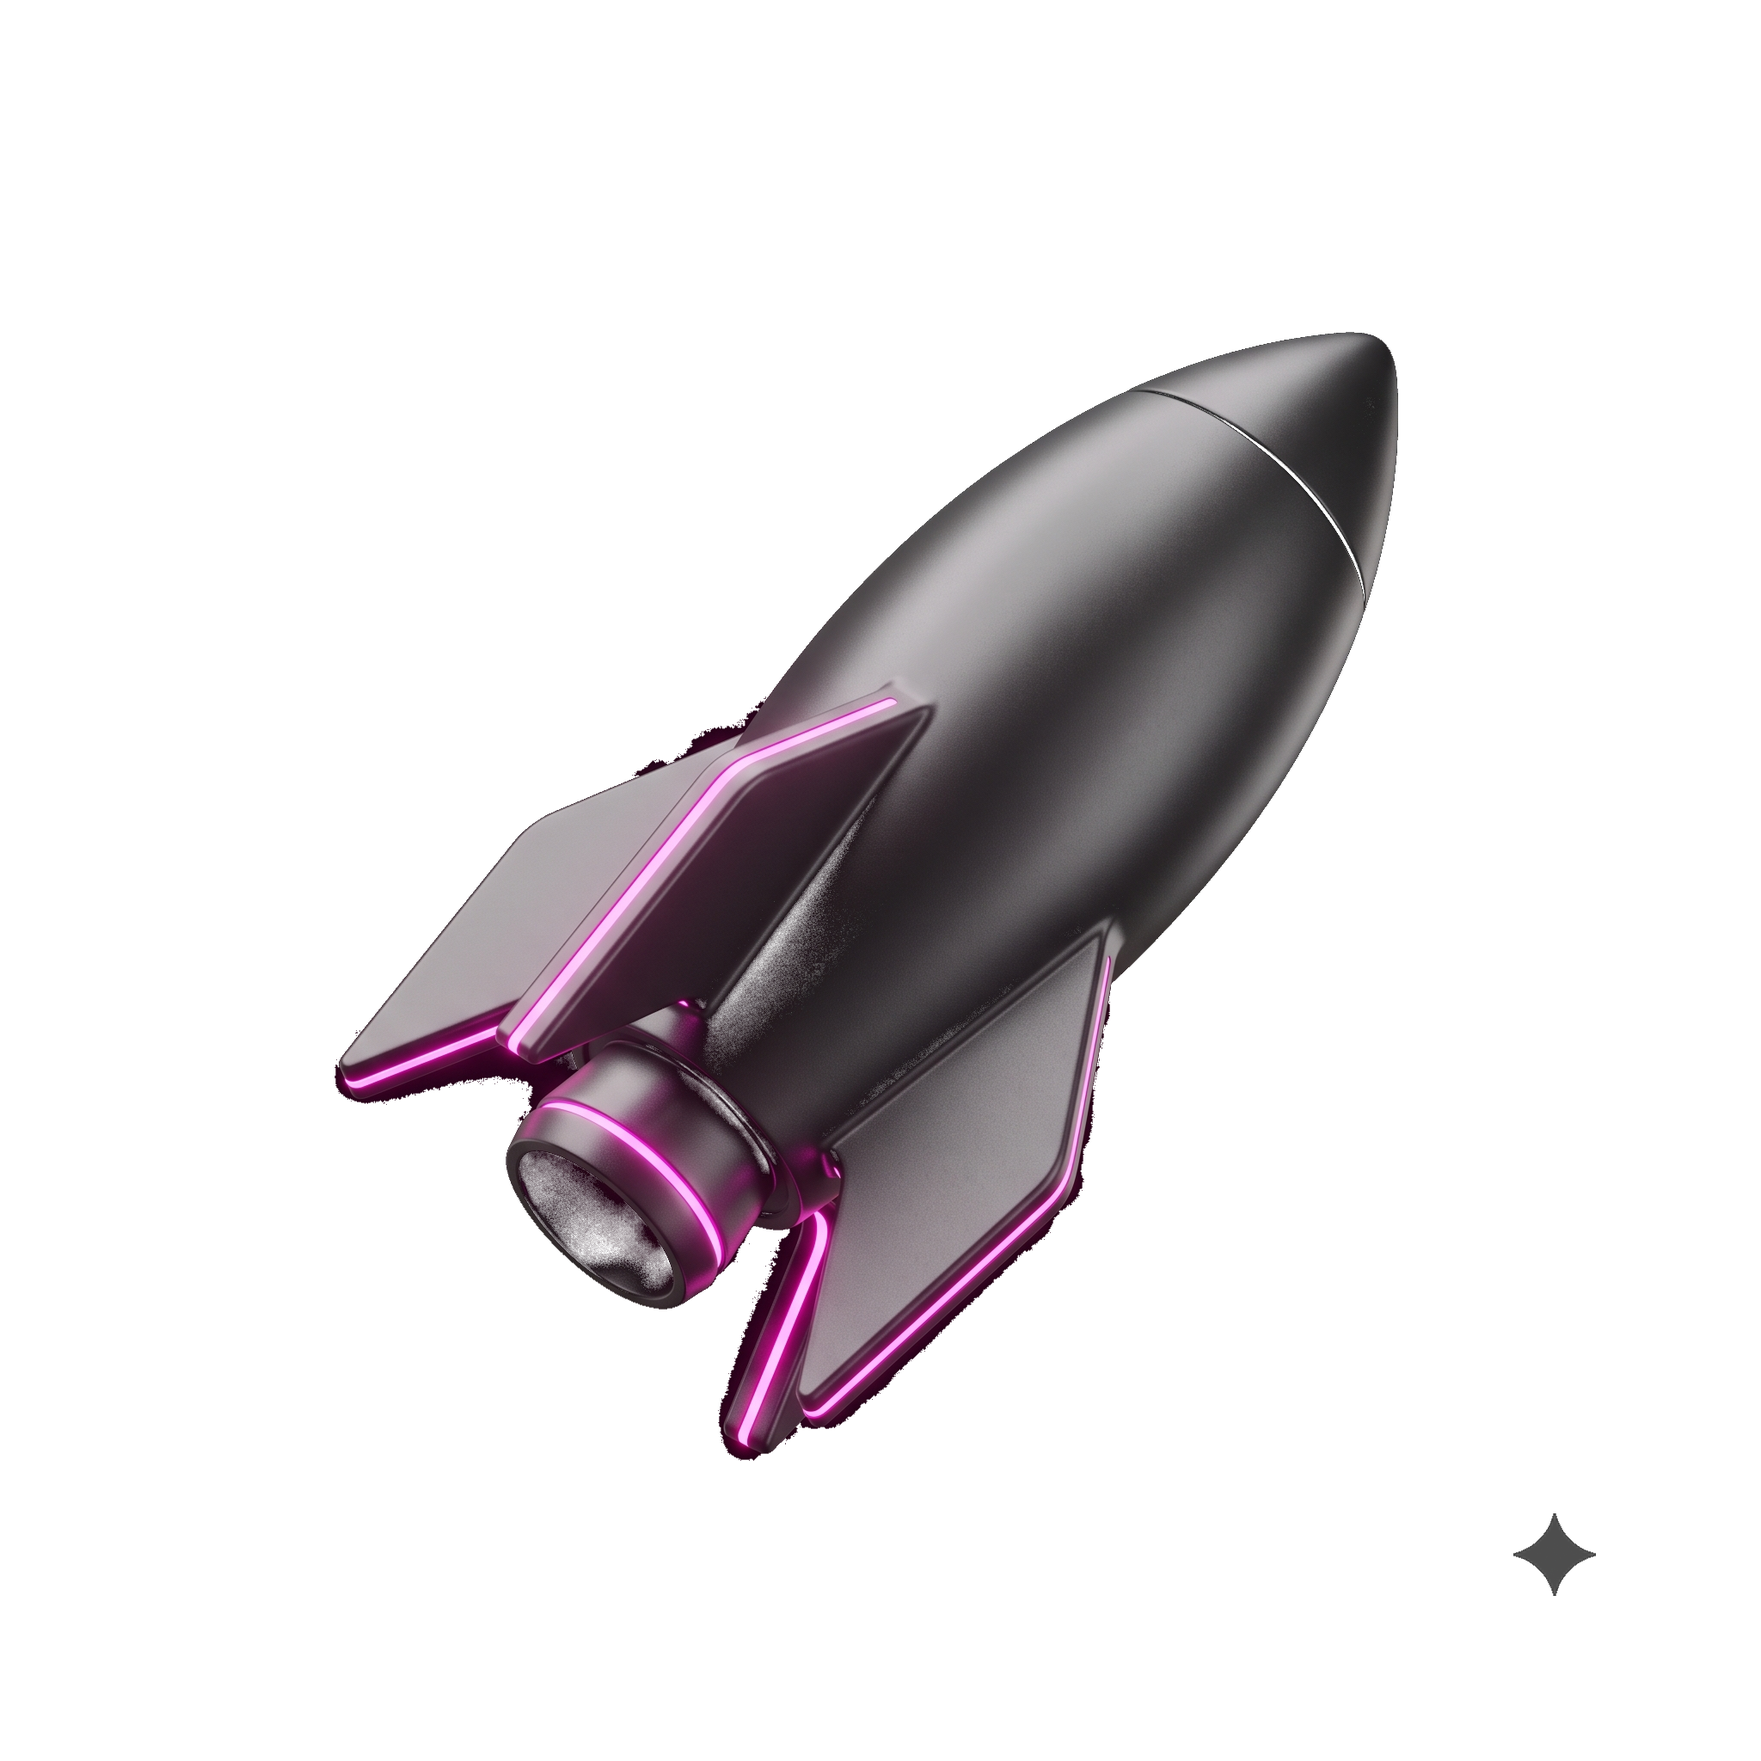
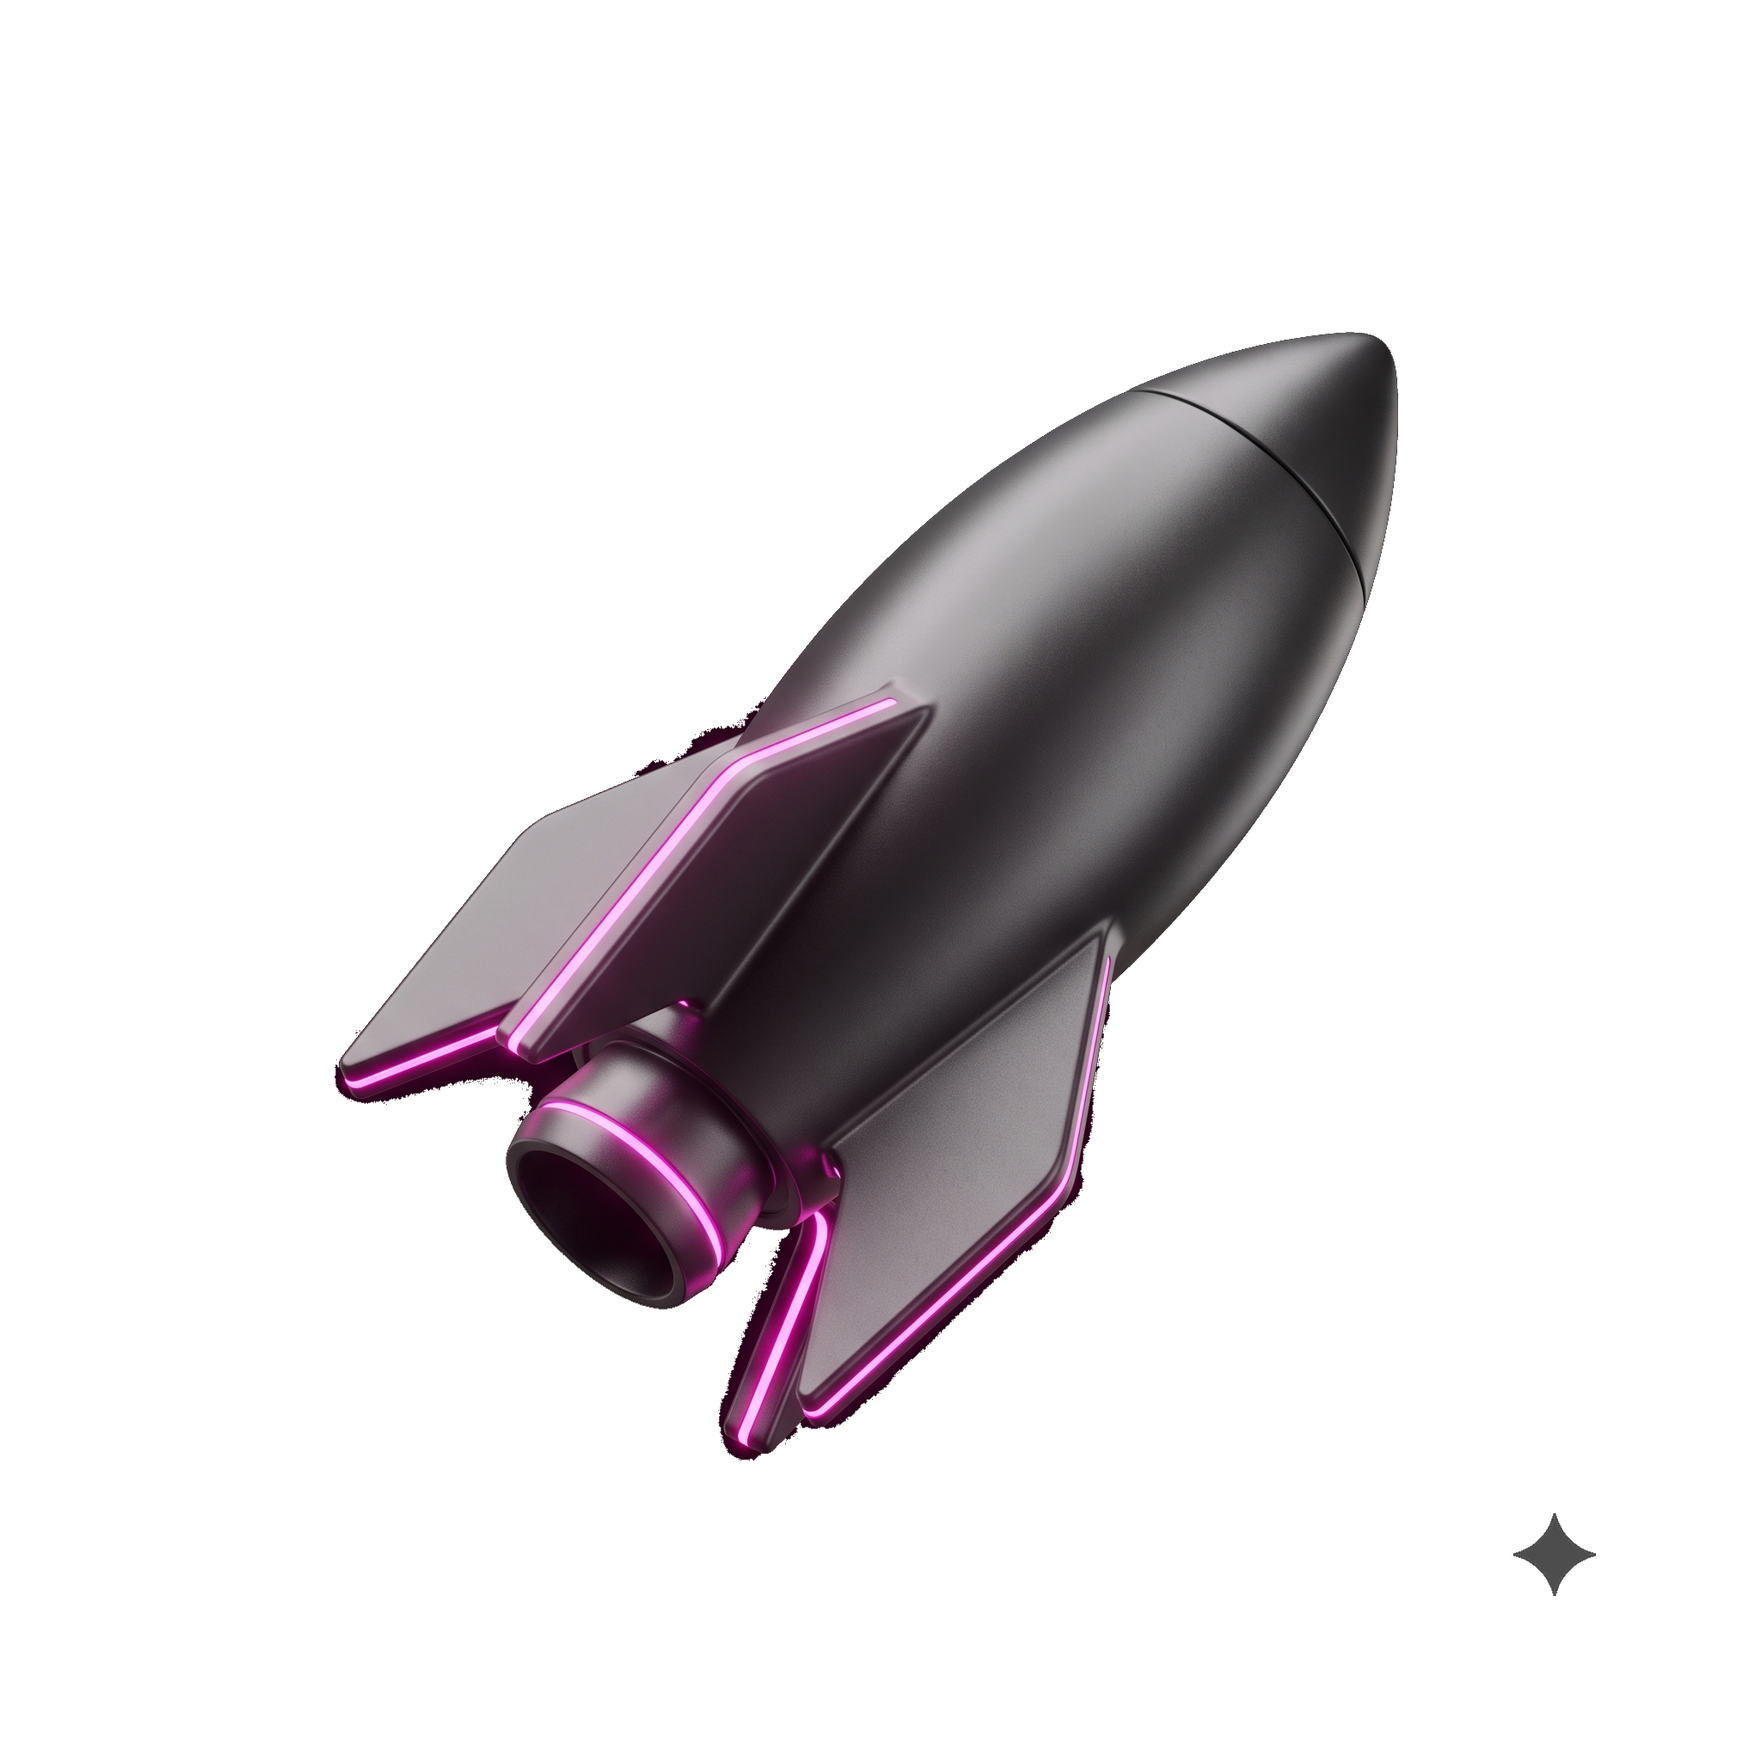
Refine 3D asset edge-floodfill transparency & scale up bento 3D graphics

diff --git a/client/components/sections/AboutSection.tsx b/client/components/sections/AboutSection.tsx
@@ -88,39 +88,39 @@ export default function AboutSection() {
                 </div>
               </div>
 
-              <div className="pt-4 border-t border-white/10 flex items-center justify-between gap-4 flex-wrap">
-                <div className="flex items-center gap-4 text-xs font-mono">
-                  <div className="flex items-center gap-2">
-                    <div className="relative h-7 w-7 shrink-0">
+              <div className="pt-6 border-t border-white/10 flex items-center justify-between gap-6 flex-wrap">
+                <div className="flex items-center gap-6 text-xs font-mono">
+                  <div className="flex items-center gap-3">
+                    <div className="relative h-12 w-12 sm:h-14 sm:w-14 shrink-0">
                       <Image
                         src="/assets/bento/sdg-wheel.png"
                         alt="3D SDG Wheel"
-                        width={28}
-                        height={28}
+                        width={56}
+                        height={56}
                         unoptimized
-                        className="object-contain drop-shadow-[0_4px_10px_rgba(242,0,137,0.5)]"
+                        className="object-contain drop-shadow-[0_8px_20px_rgba(242,0,137,0.6)] hover:scale-110 transition-transform"
                       />
                     </div>
                     <div>
-                      <span className="block text-white/50 text-[10px] uppercase">UN Alignment</span>
-                      <strong className="text-[#f20089] text-sm font-bold">17 SDGs</strong>
+                      <span className="block text-white/50 text-[11px] uppercase tracking-wider font-bold">UN Alignment</span>
+                      <strong className="text-[#f20089] text-base font-black">17 SDGs</strong>
                     </div>
                   </div>
-                  <div className="h-6 w-[1px] bg-white/10" />
-                  <div className="flex items-center gap-2">
-                    <div className="relative h-7 w-7 shrink-0">
+                  <div className="h-8 w-[1px] bg-white/15" />
+                  <div className="flex items-center gap-3">
+                    <div className="relative h-12 w-12 sm:h-14 sm:w-14 shrink-0">
                       <Image
                         src="/assets/bento/network-nodes.png"
                         alt="3D Network Nodes"
-                        width={28}
-                        height={28}
+                        width={56}
+                        height={56}
                         unoptimized
-                        className="object-contain drop-shadow-[0_4px_10px_rgba(56,189,248,0.5)]"
+                        className="object-contain drop-shadow-[0_8px_20px_rgba(56,189,248,0.6)] hover:scale-110 transition-transform"
                       />
                     </div>
                     <div>
-                      <span className="block text-white/50 text-[10px] uppercase">Heritage Impact</span>
-                      <strong className="text-white text-sm font-bold">100+ Founders</strong>
+                      <span className="block text-white/50 text-[11px] uppercase tracking-wider font-bold">Heritage Impact</span>
+                      <strong className="text-white text-base font-black">100+ Founders</strong>
                     </div>
                   </div>
                 </div>

diff --git a/client/app/events/components/EventInsideView.tsx b/client/app/events/components/EventInsideView.tsx
@@ -351,25 +351,25 @@ export default function EventInsideView({
               </span>
             </div>
 
-            <div className="flex items-center gap-3 hidden sm:flex">
-              <div className="relative h-14 w-14">
+            <div className="flex items-center gap-4 hidden sm:flex">
+              <div className="relative h-24 w-24 sm:h-28 sm:w-28">
                 <Image
                   src="/assets/bento/event-ticket-3d.png"
                   alt="3D Event Ticket"
-                  width={56}
-                  height={56}
+                  width={112}
+                  height={112}
                   unoptimized
-                  className="object-contain drop-shadow-[0_6px_15px_rgba(242,0,137,0.5)] hover:scale-110 transition-transform"
+                  className="object-contain drop-shadow-[0_10px_25px_rgba(242,0,137,0.6)] hover:scale-110 transition-transform duration-300"
                 />
               </div>
-              <div className="relative h-14 w-14">
+              <div className="relative h-24 w-24 sm:h-28 sm:w-28">
                 <Image
                   src="/assets/bento/venture-coins.png"
                   alt="3D Venture Coins"
-                  width={56}
-                  height={56}
+                  width={112}
+                  height={112}
                   unoptimized
-                  className="object-contain drop-shadow-[0_6px_15px_rgba(245,158,11,0.5)] hover:scale-110 transition-transform"
+                  className="object-contain drop-shadow-[0_10px_25px_rgba(245,158,11,0.6)] hover:scale-110 transition-transform duration-300"
                 />
               </div>
             </div>

diff --git a/client/components/events/StudentLeaderboard.tsx b/client/components/events/StudentLeaderboard.tsx
@@ -220,14 +220,14 @@ export default function StudentLeaderboard() {
                 <p className="text-xs font-bold text-[#f20089] mt-0.5">{top3[0].ventureTitle}</p>
                 <p className="text-xs text-neutral-300 mt-2 line-clamp-2">{top3[0].tagline}</p>
               </div>
-              <div className="relative h-20 w-20 shrink-0 hidden sm:block">
+              <div className="relative h-28 w-28 sm:h-36 sm:w-36 shrink-0 hidden sm:block">
                 <Image
                   src="/assets/bento/leaderboard-trophy.png"
                   alt="3D Champion Trophy"
-                  width={80}
-                  height={80}
+                  width={144}
+                  height={144}
                   unoptimized
-                  className="object-contain drop-shadow-[0_8px_20px_rgba(242,0,137,0.5)] hover:scale-110 transition-transform"
+                  className="object-contain drop-shadow-[0_12px_30px_rgba(242,0,137,0.7)] hover:scale-110 transition-transform duration-300"
                 />
               </div>
             </div>

diff --git a/client/app/events/checkin/page.tsx b/client/app/events/checkin/page.tsx
@@ -76,14 +76,14 @@ function CheckInContent() {
         <div className="pointer-events-none absolute -bottom-32 -right-32 h-96 w-96 rounded-full bg-purple-900/30 blur-3xl" />
 
         <div className="relative z-10 max-w-md w-full rounded-3xl border border-white/15 bg-white/[0.04] backdrop-blur-2xl p-8 space-y-6 shadow-2xl">
-          <div className="relative mx-auto h-20 w-20 flex items-center justify-center">
+          <div className="relative mx-auto h-32 w-32 sm:h-40 sm:w-40 flex items-center justify-center">
             <Image
               src="/assets/bento/qr-scanner-3d.png"
               alt="3D QR Scanner"
-              width={80}
-              height={80}
+              width={160}
+              height={160}
               unoptimized
-              className="object-contain drop-shadow-[0_8px_25px_rgba(242,0,137,0.6)] hover:scale-110 transition-transform"
+              className="object-contain drop-shadow-[0_12px_35px_rgba(242,0,137,0.7)] hover:scale-110 transition-transform duration-300"
             />
           </div>
 

diff --git a/client/app/register/page.tsx b/client/app/register/page.tsx
@@ -408,14 +408,14 @@ export default function RegisterPage() {
               /* GOOGLE ONLY AUTHENTICATION VIEW */
               <div className="relative z-10 py-2 animate-fadeIn">
                 {/* 3D Pitch Deck Icon */}
-                <div className="relative mx-auto mb-3 h-20 w-20 flex items-center justify-center">
+                <div className="relative mx-auto mb-4 h-32 w-32 sm:h-40 sm:w-40 flex items-center justify-center">
                   <Image
                     src="/assets/bento/pitch-deck.png"
                     alt="3D Venture Pitch Deck"
-                    width={80}
-                    height={80}
+                    width={160}
+                    height={160}
                     unoptimized
-                    className="object-contain drop-shadow-[0_8px_25px_rgba(242,0,137,0.5)] hover:scale-110 transition-transform"
+                    className="object-contain drop-shadow-[0_12px_35px_rgba(242,0,137,0.6)] hover:scale-110 transition-transform duration-300"
                   />
                 </div>
 

diff --git a/client/app/team/page.tsx b/client/app/team/page.tsx
@@ -318,14 +318,14 @@ export default function TeamPage() {
       <main className="relative z-10 flex-1 max-w-7xl mx-auto px-4 sm:px-6 lg:px-8 py-12 sm:py-16 w-full">
         {/* Hero Section */}
         <div className="text-center max-w-3xl mx-auto mb-12 sm:mb-16">
-          <div className="relative mx-auto mb-4 h-24 w-24 flex items-center justify-center">
+          <div className="relative mx-auto mb-4 h-36 w-36 sm:h-44 sm:w-44 flex items-center justify-center">
             <Image
               src="/assets/bento/team-podium.png"
               alt="3D Organizing Committee Team Podium"
-              width={96}
-              height={96}
+              width={176}
+              height={176}
               unoptimized
-              className="object-contain drop-shadow-[0_10px_30px_rgba(242,0,137,0.5)] hover:scale-110 transition-transform duration-300"
+              className="object-contain drop-shadow-[0_12px_35px_rgba(242,0,137,0.6)] hover:scale-110 transition-transform duration-300"
             />
           </div>
 

diff --git a/client/app/profile/page.tsx b/client/app/profile/page.tsx
@@ -287,14 +287,14 @@ export default function StudentProfilePage() {
                       studentInfo?.firstName?.charAt(0) || "H"
                     )}
                   </div>
-                  <div className="relative h-16 w-16 shrink-0 hidden sm:block">
+                  <div className="relative h-24 w-24 sm:h-28 sm:w-28 shrink-0 hidden sm:block">
                     <Image
                       src="/assets/bento/founder-shield-badge.png"
                       alt="3D Founder Shield Badge"
-                      width={64}
-                      height={64}
+                      width={112}
+                      height={112}
                       unoptimized
-                      className="object-contain drop-shadow-[0_8px_20px_rgba(242,0,137,0.5)] hover:scale-110 transition-transform"
+                      className="object-contain drop-shadow-[0_10px_25px_rgba(242,0,137,0.6)] hover:scale-110 transition-transform duration-300"
                     />
                   </div>
                 </div>

diff --git a/client/app/portal-hult-8f4b2c1e9a7d/AdminSignInGate.tsx b/client/app/portal-hult-8f4b2c1e9a7d/AdminSignInGate.tsx
@@ -45,14 +45,14 @@ export default function AdminSignInGate() {
             <div className="pointer-events-none absolute -bottom-16 -left-16 h-48 w-48 rounded-full bg-purple-900/30 blur-3xl" />
 
             {/* 3D Security Keycard Badge */}
-            <div className="relative mx-auto mb-4 flex h-20 w-20 items-center justify-center">
+            <div className="relative mx-auto mb-4 h-32 w-32 sm:h-40 sm:w-40 flex items-center justify-center">
               <Image
                 src="/assets/bento/security-keycard.png"
                 alt="3D Security Keycard"
-                width={80}
-                height={80}
+                width={160}
+                height={160}
                 unoptimized
-                className="object-contain drop-shadow-[0_8px_25px_rgba(242,0,137,0.6)] hover:scale-110 transition-transform"
+                className="object-contain drop-shadow-[0_12px_35px_rgba(242,0,137,0.7)] hover:scale-110 transition-transform duration-300"
               />
             </div>
 

diff --git a/client/components/events/LiveAuditoriumHub.tsx b/client/components/events/LiveAuditoriumHub.tsx
@@ -263,13 +263,13 @@ export default function LiveAuditoriumHub() {
       {/* Header Banner */}
       <div className="flex flex-col md:flex-row md:items-center justify-between gap-4 pb-8 border-b border-white/10">
         <div className="flex items-center gap-4">
-          <div className="relative w-14 h-14 shrink-0 hidden sm:block">
+          <div className="relative w-24 h-24 sm:w-28 sm:h-28 shrink-0 hidden sm:block">
             <Image
               src="/assets/bento/broadcast-antenna.png"
               alt="Live Stage Broadcast Antenna"
-              width={56}
-              height={56}
-              className="object-contain drop-shadow-[0_6px_16px_rgba(242,0,137,0.4)]"
+              width={112}
+              height={112}
+              className="object-contain drop-shadow-[0_8px_20px_rgba(242,0,137,0.6)] hover:scale-110 transition-transform duration-300"
               unoptimized
             />
           </div>

diff --git a/client/app/events/page.tsx b/client/app/events/page.tsx
@@ -392,14 +392,14 @@ export default function EventsPage() {
         ) : (
           <>
             {/* 3D Incubation Flask Asset */}
-            <div className="relative mx-auto mb-2 h-24 w-24 flex items-center justify-center">
+            <div className="relative mx-auto mb-4 h-36 w-36 sm:h-44 sm:w-44 flex items-center justify-center">
               <Image
                 src="/assets/bento/incubation-flask.png"
                 alt="3D Incubation Flask"
-                width={96}
-                height={96}
+                width={176}
+                height={176}
                 unoptimized
-                className="object-contain drop-shadow-[0_8px_30px_rgba(242,0,137,0.6)] hover:scale-110 transition-transform duration-300"
+                className="object-contain drop-shadow-[0_12px_35px_rgba(242,0,137,0.7)] hover:scale-110 transition-transform duration-300"
               />
             </div>
 

diff --git a/client/components/SiteHeader.tsx b/client/components/SiteHeader.tsx
@@ -40,14 +40,14 @@ export default function SiteHeader({ className = "" }: SiteHeaderProps) {
               className="object-contain drop-shadow-md"
             />
           </div>
-          <div className="relative h-6 sm:h-7 w-6 sm:w-7 shrink-0">
+          <div className="relative h-9 sm:h-10 w-9 sm:w-10 shrink-0">
             <Image
               src="/assets/bento/heritage-h-emblem.png"
               alt="Heritage 3D H Emblem"
-              width={28}
-              height={28}
+              width={40}
+              height={40}
               unoptimized
-              className="object-contain drop-shadow-[0_4px_10px_rgba(242,0,137,0.5)] hover:scale-110 transition-transform"
+              className="object-contain drop-shadow-[0_6px_15px_rgba(242,0,137,0.6)] hover:scale-110 transition-transform duration-300"
             />
           </div>
         </div>

diff --git a/client/components/sections/SiteFooter.tsx b/client/components/sections/SiteFooter.tsx
@@ -28,14 +28,14 @@ export default function SiteFooter() {
                   className="object-contain"
                 />
               </div>
-              <div className="relative h-9 w-9 shrink-0">
+              <div className="relative h-14 w-14 shrink-0">
                 <Image
                   src="/assets/bento/community-chat-sphere.png"
                   alt="3D Community Sphere"
-                  width={36}
-                  height={36}
+                  width={56}
+                  height={56}
                   unoptimized
-                  className="object-contain drop-shadow-[0_4px_12px_rgba(242,0,137,0.5)] hover:scale-110 transition-transform"
+                  className="object-contain drop-shadow-[0_6px_18px_rgba(242,0,137,0.6)] hover:scale-110 transition-transform duration-300"
                 />
               </div>
             </div>
